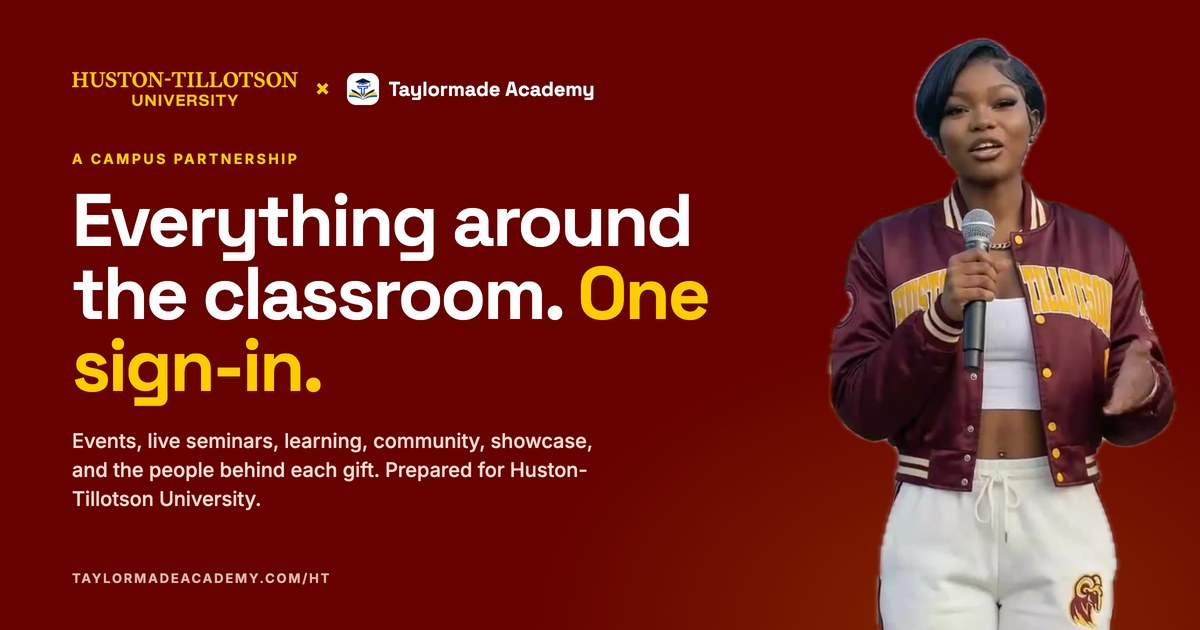
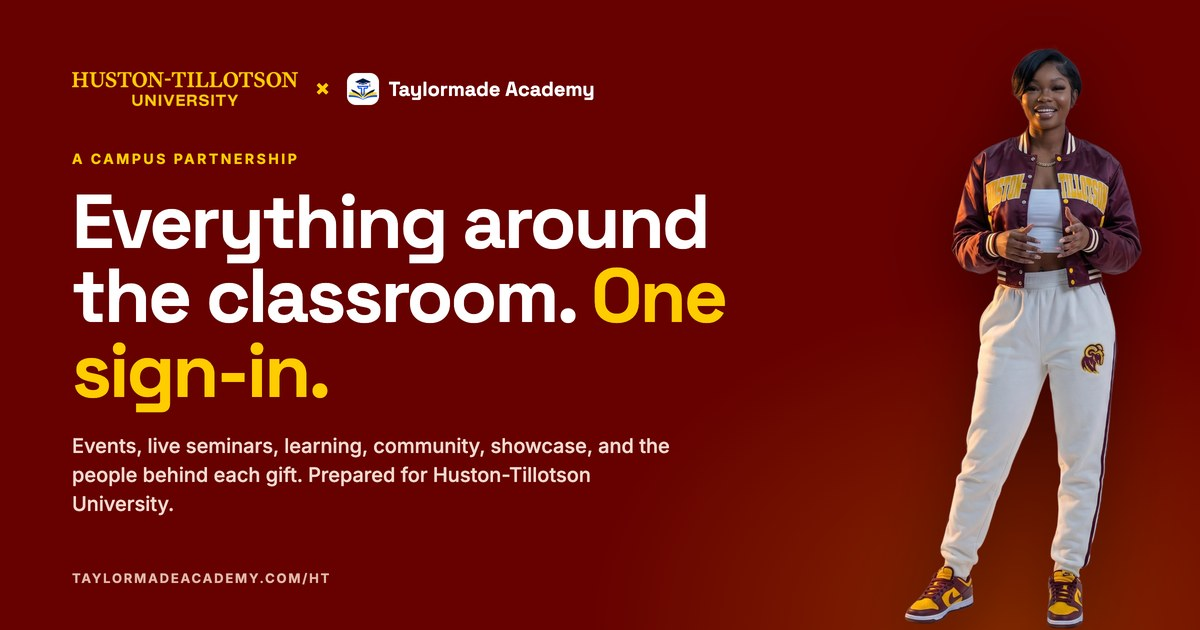
feat(ht): Nelson's studio cutout of Ada replaces the video frame
Full-body studio cutout with clean alpha, trimmed to its opaque bounds
(722x1777). Used everywhere a cutout was: the program-page hero and both
share cards. The 'Ada says' avatar is now a face crop from the same shot,
round with a gold ring, instead of a 9px face inside a wide gate frame.

The hero sizes her by height so she stands large and flush on the maroon
field, pulled left over the type column, with the credit card moved clear
of her legs onto the field beside her. The old gate cutout is deleted.

Claude-Session: https://claude.ai/code/session_017G2fb3AD7kboczn15WLkuw

diff --git a/ht/index.html b/ht/index.html
@@ -19,7 +19,7 @@
 <link rel="preconnect" href="https://fonts.googleapis.com"><link rel="preconnect" href="https://fonts.gstatic.com" crossorigin>
 <link href="https://fonts.googleapis.com/css2?family=Inter:wght@400;500;600;700;800&family=Space+Grotesk:wght@500;600;700&display=swap" rel="stylesheet">
 <link rel="stylesheet" href="/css/build-mode.css?v=3b7d540f53">
-<link rel="stylesheet" href="/ht/ht.css?v=60aff6e5">
+<link rel="stylesheet" href="/ht/ht.css?v=a9a923ce">
 <script>document.documentElement.classList.add('js')</script>
 <script src="/js/pwa.js" defer></script>
 <style>
@@ -32,24 +32,24 @@
 .pg .lead{font-size:clamp(16.5px,1.5vw,19px);line-height:1.6;color:var(--ink-2);max-width:58ch}
 /* hero: maroon field, Ada cutout large, flush bottom, masking the tail of the display line */
 .pg section.hero{background:var(--ht-maroon);color:#fff;position:relative;overflow:hidden;padding-block:clamp(56px,7vw,110px) 0}
-.hero .wrap{position:relative;display:grid;grid-template-columns:minmax(0,1.15fr) minmax(280px,.85fr);gap:clamp(20px,3vw,40px);align-items:end;min-height:min(78vh,760px)}
-.hero .copy{padding-bottom:clamp(56px,7vw,110px);position:relative;z-index:2}
+.hero .wrap{position:relative;display:grid;grid-template-columns:minmax(0,1.5fr) minmax(200px,.5fr);gap:0;align-items:end;min-height:min(84vh,900px)}
+.hero .copy{padding-bottom:clamp(56px,7vw,110px);position:relative;z-index:2;padding-right:clamp(0px,3vw,40px)}
 .hero .lock{display:flex;align-items:center;gap:14px;flex-wrap:wrap}
 .hero .lock img.ht{height:clamp(24px,2.8vw,34px);width:auto}
 .hero .lock .x{font-family:var(--display);font-weight:700;color:var(--ht-gold);font-size:22px;line-height:1}
 .hero .lock .tma{display:inline-flex;align-items:center;gap:8px;font-family:var(--display);font-weight:700;color:#fff;font-size:16px}
 .hero .lock .tma img{height:28px;width:28px;border-radius:8px;background:#fff}
 .hero .kick{color:var(--ht-gold);margin-top:34px}.hero .kick::after{background:#fff;opacity:.5}
-.hero h1{font-size:clamp(46px,7vw,112px);line-height:.98;letter-spacing:-.035em;color:#fff;margin-top:18px;max-width:11ch}
+.hero h1{font-size:clamp(44px,6.6vw,106px);line-height:.98;letter-spacing:-.035em;color:#fff;margin-top:18px;max-width:13.5ch;position:relative;z-index:1}
 .hero h1 em{font-style:normal;color:var(--ht-gold)}
 .hero .stand{margin-top:24px;font-size:clamp(16.5px,1.6vw,20px);line-height:1.55;color:#f3d9cf;max-width:48ch}
 .hero .ctas{display:flex;flex-wrap:wrap;gap:12px;margin-top:34px}
-.hero .hero-ada{position:relative;z-index:1;align-self:end;justify-self:center;width:min(100%,520px);margin-right:clamp(-40px,-3vw,0px)}
-.hero .hero-ada img{width:100%;height:auto;display:block;filter:drop-shadow(0 30px 40px rgba(0,0,0,.45))}
-.hero .hero-ada .cap{position:absolute;left:8%;bottom:22px;background:rgba(59,0,0,.8);backdrop-filter:blur(8px);border:1px solid rgba(255,204,0,.35);color:#fff;border-radius:12px;padding:10px 14px;font-size:12.5px;line-height:1.4;max-width:240px}
+.hero .hero-ada{position:relative;z-index:3;align-self:end;justify-self:end;display:flex;justify-content:flex-end;margin-left:clamp(-240px,-14vw,-80px);margin-right:clamp(-24px,-1.5vw,0px)}
+.hero .hero-ada img{height:clamp(620px,88vh,1040px);width:auto;max-width:none;display:block;filter:drop-shadow(0 26px 46px rgba(0,0,0,.45))}
+.hero .hero-ada .cap{position:absolute;right:calc(100% - 34px);bottom:96px;background:rgba(43,0,0,.9);backdrop-filter:blur(8px);border:1px solid rgba(255,204,0,.4);color:#fff;border-radius:13px;padding:11px 15px;font-size:12.5px;line-height:1.42;width:224px;box-shadow:0 18px 40px -16px rgba(0,0,0,.7)}
 .hero .hero-ada .cap b{display:block;color:var(--ht-gold);font-size:11px;letter-spacing:.12em;text-transform:uppercase}
 .hero .grain{position:absolute;inset:0;pointer-events:none;background:radial-gradient(60% 60% at 80% 100%,rgba(255,204,0,.14),transparent 70%)}
-@media(max-width:880px){.hero .wrap{grid-template-columns:1fr;min-height:0}.hero .copy{padding-bottom:20px}.hero .hero-ada{width:min(84%,380px);margin-right:0}.hero h1{max-width:none}}
+@media(max-width:880px){.hero .wrap{grid-template-columns:1fr;min-height:0;gap:0}.hero .copy{padding-bottom:8px}.hero .hero-ada{margin:0;justify-self:center;justify-content:center}.hero .hero-ada img{height:min(64vh,580px)}.hero .hero-ada .cap{right:auto;left:-10px;bottom:34px;width:190px;font-size:11.5px;padding:10px 13px}.hero h1{max-width:none}}
 /* offices map */
 .map{display:grid;grid-template-columns:repeat(auto-fill,minmax(240px,1fr));gap:14px;margin-top:40px}
 .map a{display:flex;flex-direction:column;gap:8px;background:#fff;border:1px solid var(--ht-hair);border-radius:16px;padding:18px;transition:transform .35s var(--ease),box-shadow .35s var(--ease)}
@@ -151,7 +151,7 @@
 <p class="stand">Events, live seminars, co-curricular learning, community, the student showcase, and the way a donor sees what their gift built. On one platform that carries Huston-Tillotson&rsquo;s name, with Ada at the door.</p>
 <div class="ctas"><a class="btn ht-gold" href="/ht/hub/">Open the HT Hub</a><a class="btn" style="background:transparent;color:#fff;border:1.5px solid rgba(255,255,255,.55)" href="#spaces">See every space</a></div>
 </div>
-<div class="hero-ada"><img src="/ht/img/ada-gate-cutout.webp" alt="Ada, the HT student ambassador, at the campus gate in a maroon varsity jacket" width="833" height="1400" fetchpriority="high"><div class="cap"><b>Ada &middot; HT student ambassador</b>Greets every member by name. Every line approved by the University.</div></div>
+<div class="hero-ada"><img src="/ht/img/ada-cutout.webp" alt="Ada, the HT student ambassador, in a Huston-Tillotson varsity jacket" width="722" height="1777" fetchpriority="high"><div class="cap"><b>Ada &middot; HT student ambassador</b>Greets every member by name. Every line approved by the University.</div></div>
 </div></section>
 
 <section id="spaces"><div class="wrap">
@@ -238,9 +238,9 @@
 </div></footer>
 
 <script src="/js/config.js?v=3b7d540f53"></script>
-<script src="/ht/hub/data.js?v=60aff6e5"></script>
-<script src="/ht/hub/data/all.js?v=60aff6e5"></script>
-<script src="/ht/hub/ht.js?v=60aff6e5"></script>
+<script src="/ht/hub/data.js?v=a9a923ce"></script>
+<script src="/ht/hub/data/all.js?v=a9a923ce"></script>
+<script src="/ht/hub/ht.js?v=a9a923ce"></script>
 <script>
 (function(){
   /* offices map from the hub data */

diff --git a/ht/hub/advancement/index.html b/ht/hub/advancement/index.html
@@ -19,9 +19,9 @@
 <link rel="preconnect" href="https://fonts.googleapis.com"><link rel="preconnect" href="https://fonts.gstatic.com" crossorigin>
 <link href="https://fonts.googleapis.com/css2?family=Inter:wght@400;500;600;700;800&family=Space+Grotesk:wght@500;600;700&display=swap" rel="stylesheet">
 <link rel="stylesheet" href="/css/build-mode.css?v=3b7d540f53">
-<link rel="stylesheet" href="/ht/ht.css?v=60aff6e5">
+<link rel="stylesheet" href="/ht/ht.css?v=a9a923ce">
 <script>document.documentElement.classList.add('js')</script>
-<script src="/js/pwa.js?v=60aff6e5" defer></script>
+<script src="/js/pwa.js?v=a9a923ce" defer></script>
 </head><body class="ht" data-space="advancement">
 <a class="ht-skip" href="#htMain">Skip to content</a>
 <div class="ht-bar" id="htBar"><div class="wrap"><span><b>Preview</b> · sample content, built for Huston-Tillotson University</span></div></div>
@@ -42,7 +42,7 @@
 <span class="mono">PREPARED FOR HUSTON-TILLOTSON UNIVERSITY</span></div>
 </div></footer>
 <script src="/js/config.js?v=3b7d540f53"></script>
-<script src="/ht/hub/data.js?v=60aff6e5"></script>
-<script src="/ht/hub/data/all.js?v=60aff6e5"></script>
-<script src="/ht/hub/ht.js?v=60aff6e5"></script>
+<script src="/ht/hub/data.js?v=a9a923ce"></script>
+<script src="/ht/hub/data/all.js?v=a9a923ce"></script>
+<script src="/ht/hub/ht.js?v=a9a923ce"></script>
 </body></html>

diff --git a/ht/hub/admissions/index.html b/ht/hub/admissions/index.html
@@ -19,9 +19,9 @@
 <link rel="preconnect" href="https://fonts.googleapis.com"><link rel="preconnect" href="https://fonts.gstatic.com" crossorigin>
 <link href="https://fonts.googleapis.com/css2?family=Inter:wght@400;500;600;700;800&family=Space+Grotesk:wght@500;600;700&display=swap" rel="stylesheet">
 <link rel="stylesheet" href="/css/build-mode.css?v=3b7d540f53">
-<link rel="stylesheet" href="/ht/ht.css?v=60aff6e5">
+<link rel="stylesheet" href="/ht/ht.css?v=a9a923ce">
 <script>document.documentElement.classList.add('js')</script>
-<script src="/js/pwa.js?v=60aff6e5" defer></script>
+<script src="/js/pwa.js?v=a9a923ce" defer></script>
 </head><body class="ht" data-space="admissions">
 <a class="ht-skip" href="#htMain">Skip to content</a>
 <div class="ht-bar" id="htBar"><div class="wrap"><span><b>Preview</b> · sample content, built for Huston-Tillotson University</span></div></div>
@@ -42,7 +42,7 @@
 <span class="mono">PREPARED FOR HUSTON-TILLOTSON UNIVERSITY</span></div>
 </div></footer>
 <script src="/js/config.js?v=3b7d540f53"></script>
-<script src="/ht/hub/data.js?v=60aff6e5"></script>
-<script src="/ht/hub/data/all.js?v=60aff6e5"></script>
-<script src="/ht/hub/ht.js?v=60aff6e5"></script>
+<script src="/ht/hub/data.js?v=a9a923ce"></script>
+<script src="/ht/hub/data/all.js?v=a9a923ce"></script>
+<script src="/ht/hub/ht.js?v=a9a923ce"></script>
 </body></html>

diff --git a/ht/hub/community/index.html b/ht/hub/community/index.html
@@ -19,9 +19,9 @@
 <link rel="preconnect" href="https://fonts.googleapis.com"><link rel="preconnect" href="https://fonts.gstatic.com" crossorigin>
 <link href="https://fonts.googleapis.com/css2?family=Inter:wght@400;500;600;700;800&family=Space+Grotesk:wght@500;600;700&display=swap" rel="stylesheet">
 <link rel="stylesheet" href="/css/build-mode.css?v=3b7d540f53">
-<link rel="stylesheet" href="/ht/ht.css?v=60aff6e5">
+<link rel="stylesheet" href="/ht/ht.css?v=a9a923ce">
 <script>document.documentElement.classList.add('js')</script>
-<script src="/js/pwa.js?v=60aff6e5" defer></script>
+<script src="/js/pwa.js?v=a9a923ce" defer></script>
 </head><body class="ht" data-space="community">
 <a class="ht-skip" href="#htMain">Skip to content</a>
 <div class="ht-bar" id="htBar"><div class="wrap"><span><b>Preview</b> · sample content, built for Huston-Tillotson University</span></div></div>
@@ -42,7 +42,7 @@
 <span class="mono">PREPARED FOR HUSTON-TILLOTSON UNIVERSITY</span></div>
 </div></footer>
 <script src="/js/config.js?v=3b7d540f53"></script>
-<script src="/ht/hub/data.js?v=60aff6e5"></script>
-<script src="/ht/hub/data/all.js?v=60aff6e5"></script>
-<script src="/ht/hub/ht.js?v=60aff6e5"></script>
+<script src="/ht/hub/data.js?v=a9a923ce"></script>
+<script src="/ht/hub/data/all.js?v=a9a923ce"></script>
+<script src="/ht/hub/ht.js?v=a9a923ce"></script>
 </body></html>

diff --git a/ht/hub/president/index.html b/ht/hub/president/index.html
@@ -19,9 +19,9 @@
 <link rel="preconnect" href="https://fonts.googleapis.com"><link rel="preconnect" href="https://fonts.gstatic.com" crossorigin>
 <link href="https://fonts.googleapis.com/css2?family=Inter:wght@400;500;600;700;800&family=Space+Grotesk:wght@500;600;700&display=swap" rel="stylesheet">
 <link rel="stylesheet" href="/css/build-mode.css?v=3b7d540f53">
-<link rel="stylesheet" href="/ht/ht.css?v=60aff6e5">
+<link rel="stylesheet" href="/ht/ht.css?v=a9a923ce">
 <script>document.documentElement.classList.add('js')</script>
-<script src="/js/pwa.js?v=60aff6e5" defer></script>
+<script src="/js/pwa.js?v=a9a923ce" defer></script>
 </head><body class="ht" data-space="president">
 <a class="ht-skip" href="#htMain">Skip to content</a>
 <div class="ht-bar" id="htBar"><div class="wrap"><span><b>Preview</b> · sample content, built for Huston-Tillotson University</span></div></div>
@@ -42,7 +42,7 @@
 <span class="mono">PREPARED FOR HUSTON-TILLOTSON UNIVERSITY</span></div>
 </div></footer>
 <script src="/js/config.js?v=3b7d540f53"></script>
-<script src="/ht/hub/data.js?v=60aff6e5"></script>
-<script src="/ht/hub/data/all.js?v=60aff6e5"></script>
-<script src="/ht/hub/ht.js?v=60aff6e5"></script>
+<script src="/ht/hub/data.js?v=a9a923ce"></script>
+<script src="/ht/hub/data/all.js?v=a9a923ce"></script>
+<script src="/ht/hub/ht.js?v=a9a923ce"></script>
 </body></html>

diff --git a/ht/hub/outreach/index.html b/ht/hub/outreach/index.html
@@ -19,9 +19,9 @@
 <link rel="preconnect" href="https://fonts.googleapis.com"><link rel="preconnect" href="https://fonts.gstatic.com" crossorigin>
 <link href="https://fonts.googleapis.com/css2?family=Inter:wght@400;500;600;700;800&family=Space+Grotesk:wght@500;600;700&display=swap" rel="stylesheet">
 <link rel="stylesheet" href="/css/build-mode.css?v=3b7d540f53">
-<link rel="stylesheet" href="/ht/ht.css?v=60aff6e5">
+<link rel="stylesheet" href="/ht/ht.css?v=a9a923ce">
 <script>document.documentElement.classList.add('js')</script>
-<script src="/js/pwa.js?v=60aff6e5" defer></script>
+<script src="/js/pwa.js?v=a9a923ce" defer></script>
 </head><body class="ht" data-space="outreach">
 <a class="ht-skip" href="#htMain">Skip to content</a>
 <div class="ht-bar" id="htBar"><div class="wrap"><span><b>Preview</b> · sample content, built for Huston-Tillotson University</span></div></div>
@@ -42,7 +42,7 @@
 <span class="mono">PREPARED FOR HUSTON-TILLOTSON UNIVERSITY</span></div>
 </div></footer>
 <script src="/js/config.js?v=3b7d540f53"></script>
-<script src="/ht/hub/data.js?v=60aff6e5"></script>
-<script src="/ht/hub/data/all.js?v=60aff6e5"></script>
-<script src="/ht/hub/ht.js?v=60aff6e5"></script>
+<script src="/ht/hub/data.js?v=a9a923ce"></script>
+<script src="/ht/hub/data/all.js?v=a9a923ce"></script>
+<script src="/ht/hub/ht.js?v=a9a923ce"></script>
 </body></html>

diff --git a/ht/hub/showcase/index.html b/ht/hub/showcase/index.html
@@ -19,9 +19,9 @@
 <link rel="preconnect" href="https://fonts.googleapis.com"><link rel="preconnect" href="https://fonts.gstatic.com" crossorigin>
 <link href="https://fonts.googleapis.com/css2?family=Inter:wght@400;500;600;700;800&family=Space+Grotesk:wght@500;600;700&display=swap" rel="stylesheet">
 <link rel="stylesheet" href="/css/build-mode.css?v=3b7d540f53">
-<link rel="stylesheet" href="/ht/ht.css?v=60aff6e5">
+<link rel="stylesheet" href="/ht/ht.css?v=a9a923ce">
 <script>document.documentElement.classList.add('js')</script>
-<script src="/js/pwa.js?v=60aff6e5" defer></script>
+<script src="/js/pwa.js?v=a9a923ce" defer></script>
 </head><body class="ht" data-space="showcase">
 <a class="ht-skip" href="#htMain">Skip to content</a>
 <div class="ht-bar" id="htBar"><div class="wrap"><span><b>Preview</b> · sample content, built for Huston-Tillotson University</span></div></div>
@@ -42,7 +42,7 @@
 <span class="mono">PREPARED FOR HUSTON-TILLOTSON UNIVERSITY</span></div>
 </div></footer>
 <script src="/js/config.js?v=3b7d540f53"></script>
-<script src="/ht/hub/data.js?v=60aff6e5"></script>
-<script src="/ht/hub/data/all.js?v=60aff6e5"></script>
-<script src="/ht/hub/ht.js?v=60aff6e5"></script>
+<script src="/ht/hub/data.js?v=a9a923ce"></script>
+<script src="/ht/hub/data/all.js?v=a9a923ce"></script>
+<script src="/ht/hub/ht.js?v=a9a923ce"></script>
 </body></html>

diff --git a/ht/hub/students/index.html b/ht/hub/students/index.html
@@ -19,9 +19,9 @@
 <link rel="preconnect" href="https://fonts.googleapis.com"><link rel="preconnect" href="https://fonts.gstatic.com" crossorigin>
 <link href="https://fonts.googleapis.com/css2?family=Inter:wght@400;500;600;700;800&family=Space+Grotesk:wght@500;600;700&display=swap" rel="stylesheet">
 <link rel="stylesheet" href="/css/build-mode.css?v=3b7d540f53">
-<link rel="stylesheet" href="/ht/ht.css?v=60aff6e5">
+<link rel="stylesheet" href="/ht/ht.css?v=a9a923ce">
 <script>document.documentElement.classList.add('js')</script>
-<script src="/js/pwa.js?v=60aff6e5" defer></script>
+<script src="/js/pwa.js?v=a9a923ce" defer></script>
 </head><body class="ht" data-space="students">
 <a class="ht-skip" href="#htMain">Skip to content</a>
 <div class="ht-bar" id="htBar"><div class="wrap"><span><b>Preview</b> · sample content, built for Huston-Tillotson University</span></div></div>
@@ -42,7 +42,7 @@
 <span class="mono">PREPARED FOR HUSTON-TILLOTSON UNIVERSITY</span></div>
 </div></footer>
 <script src="/js/config.js?v=3b7d540f53"></script>
-<script src="/ht/hub/data.js?v=60aff6e5"></script>
-<script src="/ht/hub/data/all.js?v=60aff6e5"></script>
-<script src="/ht/hub/ht.js?v=60aff6e5"></script>
+<script src="/ht/hub/data.js?v=a9a923ce"></script>
+<script src="/ht/hub/data/all.js?v=a9a923ce"></script>
+<script src="/ht/hub/ht.js?v=a9a923ce"></script>
 </body></html>

diff --git a/ht/hub/alumni/index.html b/ht/hub/alumni/index.html
@@ -19,9 +19,9 @@
 <link rel="preconnect" href="https://fonts.googleapis.com"><link rel="preconnect" href="https://fonts.gstatic.com" crossorigin>
 <link href="https://fonts.googleapis.com/css2?family=Inter:wght@400;500;600;700;800&family=Space+Grotesk:wght@500;600;700&display=swap" rel="stylesheet">
 <link rel="stylesheet" href="/css/build-mode.css?v=3b7d540f53">
-<link rel="stylesheet" href="/ht/ht.css?v=60aff6e5">
+<link rel="stylesheet" href="/ht/ht.css?v=a9a923ce">
 <script>document.documentElement.classList.add('js')</script>
-<script src="/js/pwa.js?v=60aff6e5" defer></script>
+<script src="/js/pwa.js?v=a9a923ce" defer></script>
 </head><body class="ht" data-space="alumni">
 <a class="ht-skip" href="#htMain">Skip to content</a>
 <div class="ht-bar" id="htBar"><div class="wrap"><span><b>Preview</b> · sample content, built for Huston-Tillotson University</span></div></div>
@@ -42,7 +42,7 @@
 <span class="mono">PREPARED FOR HUSTON-TILLOTSON UNIVERSITY</span></div>
 </div></footer>
 <script src="/js/config.js?v=3b7d540f53"></script>
-<script src="/ht/hub/data.js?v=60aff6e5"></script>
-<script src="/ht/hub/data/all.js?v=60aff6e5"></script>
-<script src="/ht/hub/ht.js?v=60aff6e5"></script>
+<script src="/ht/hub/data.js?v=a9a923ce"></script>
+<script src="/ht/hub/data/all.js?v=a9a923ce"></script>
+<script src="/ht/hub/ht.js?v=a9a923ce"></script>
 </body></html>

diff --git a/ht/hub/career/index.html b/ht/hub/career/index.html
@@ -19,9 +19,9 @@
 <link rel="preconnect" href="https://fonts.googleapis.com"><link rel="preconnect" href="https://fonts.gstatic.com" crossorigin>
 <link href="https://fonts.googleapis.com/css2?family=Inter:wght@400;500;600;700;800&family=Space+Grotesk:wght@500;600;700&display=swap" rel="stylesheet">
 <link rel="stylesheet" href="/css/build-mode.css?v=3b7d540f53">
-<link rel="stylesheet" href="/ht/ht.css?v=60aff6e5">
+<link rel="stylesheet" href="/ht/ht.css?v=a9a923ce">
 <script>document.documentElement.classList.add('js')</script>
-<script src="/js/pwa.js?v=60aff6e5" defer></script>
+<script src="/js/pwa.js?v=a9a923ce" defer></script>
 </head><body class="ht" data-space="career">
 <a class="ht-skip" href="#htMain">Skip to content</a>
 <div class="ht-bar" id="htBar"><div class="wrap"><span><b>Preview</b> · sample content, built for Huston-Tillotson University</span></div></div>
@@ -42,7 +42,7 @@
 <span class="mono">PREPARED FOR HUSTON-TILLOTSON UNIVERSITY</span></div>
 </div></footer>
 <script src="/js/config.js?v=3b7d540f53"></script>
-<script src="/ht/hub/data.js?v=60aff6e5"></script>
-<script src="/ht/hub/data/all.js?v=60aff6e5"></script>
-<script src="/ht/hub/ht.js?v=60aff6e5"></script>
+<script src="/ht/hub/data.js?v=a9a923ce"></script>
+<script src="/ht/hub/data/all.js?v=a9a923ce"></script>
+<script src="/ht/hub/ht.js?v=a9a923ce"></script>
 </body></html>

diff --git a/ht/hub/events/index.html b/ht/hub/events/index.html
@@ -19,9 +19,9 @@
 <link rel="preconnect" href="https://fonts.googleapis.com"><link rel="preconnect" href="https://fonts.gstatic.com" crossorigin>
 <link href="https://fonts.googleapis.com/css2?family=Inter:wght@400;500;600;700;800&family=Space+Grotesk:wght@500;600;700&display=swap" rel="stylesheet">
 <link rel="stylesheet" href="/css/build-mode.css?v=3b7d540f53">
-<link rel="stylesheet" href="/ht/ht.css?v=60aff6e5">
+<link rel="stylesheet" href="/ht/ht.css?v=a9a923ce">
 <script>document.documentElement.classList.add('js')</script>
-<script src="/js/pwa.js?v=60aff6e5" defer></script>
+<script src="/js/pwa.js?v=a9a923ce" defer></script>
 </head><body class="ht" data-space="events">
 <a class="ht-skip" href="#htMain">Skip to content</a>
 <div class="ht-bar" id="htBar"><div class="wrap"><span><b>Preview</b> · sample content, built for Huston-Tillotson University</span></div></div>
@@ -42,7 +42,7 @@
 <span class="mono">PREPARED FOR HUSTON-TILLOTSON UNIVERSITY</span></div>
 </div></footer>
 <script src="/js/config.js?v=3b7d540f53"></script>
-<script src="/ht/hub/data.js?v=60aff6e5"></script>
-<script src="/ht/hub/data/all.js?v=60aff6e5"></script>
-<script src="/ht/hub/ht.js?v=60aff6e5"></script>
+<script src="/ht/hub/data.js?v=a9a923ce"></script>
+<script src="/ht/hub/data/all.js?v=a9a923ce"></script>
+<script src="/ht/hub/ht.js?v=a9a923ce"></script>
 </body></html>

diff --git a/ht/hub/board/index.html b/ht/hub/board/index.html
@@ -19,9 +19,9 @@
 <link rel="preconnect" href="https://fonts.googleapis.com"><link rel="preconnect" href="https://fonts.gstatic.com" crossorigin>
 <link href="https://fonts.googleapis.com/css2?family=Inter:wght@400;500;600;700;800&family=Space+Grotesk:wght@500;600;700&display=swap" rel="stylesheet">
 <link rel="stylesheet" href="/css/build-mode.css?v=3b7d540f53">
-<link rel="stylesheet" href="/ht/ht.css?v=60aff6e5">
+<link rel="stylesheet" href="/ht/ht.css?v=a9a923ce">
 <script>document.documentElement.classList.add('js')</script>
-<script src="/js/pwa.js?v=60aff6e5" defer></script>
+<script src="/js/pwa.js?v=a9a923ce" defer></script>
 </head><body class="ht" data-space="board">
 <a class="ht-skip" href="#htMain">Skip to content</a>
 <div class="ht-bar" id="htBar"><div class="wrap"><span><b>Preview</b> · sample content, built for Huston-Tillotson University</span></div></div>
@@ -42,7 +42,7 @@
 <span class="mono">PREPARED FOR HUSTON-TILLOTSON UNIVERSITY</span></div>
 </div></footer>
 <script src="/js/config.js?v=3b7d540f53"></script>
-<script src="/ht/hub/data.js?v=60aff6e5"></script>
-<script src="/ht/hub/data/all.js?v=60aff6e5"></script>
-<script src="/ht/hub/ht.js?v=60aff6e5"></script>
+<script src="/ht/hub/data.js?v=a9a923ce"></script>
+<script src="/ht/hub/data/all.js?v=a9a923ce"></script>
+<script src="/ht/hub/ht.js?v=a9a923ce"></script>
 </body></html>
